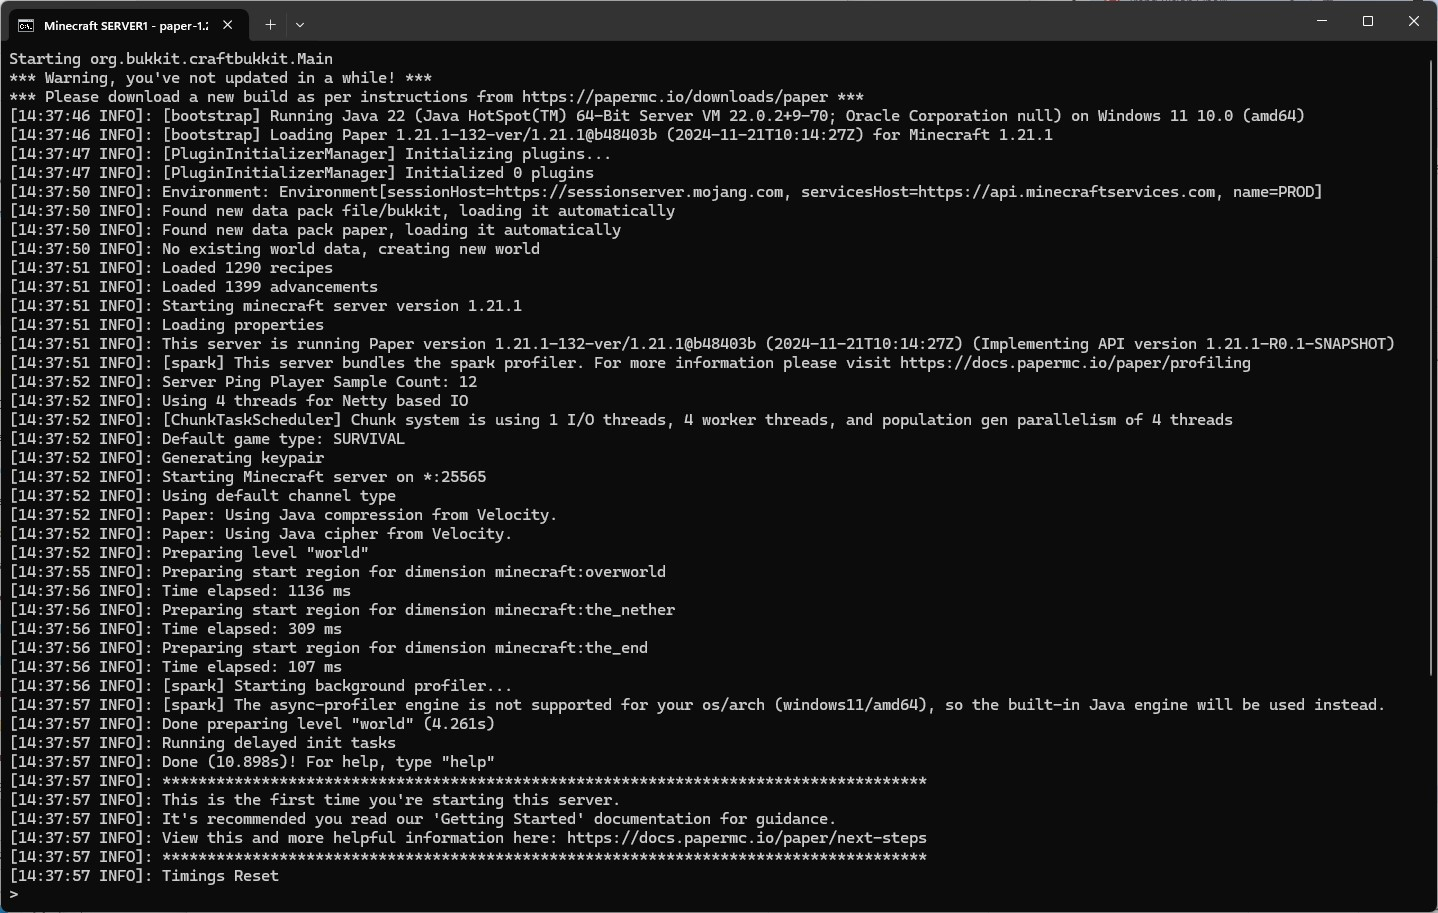
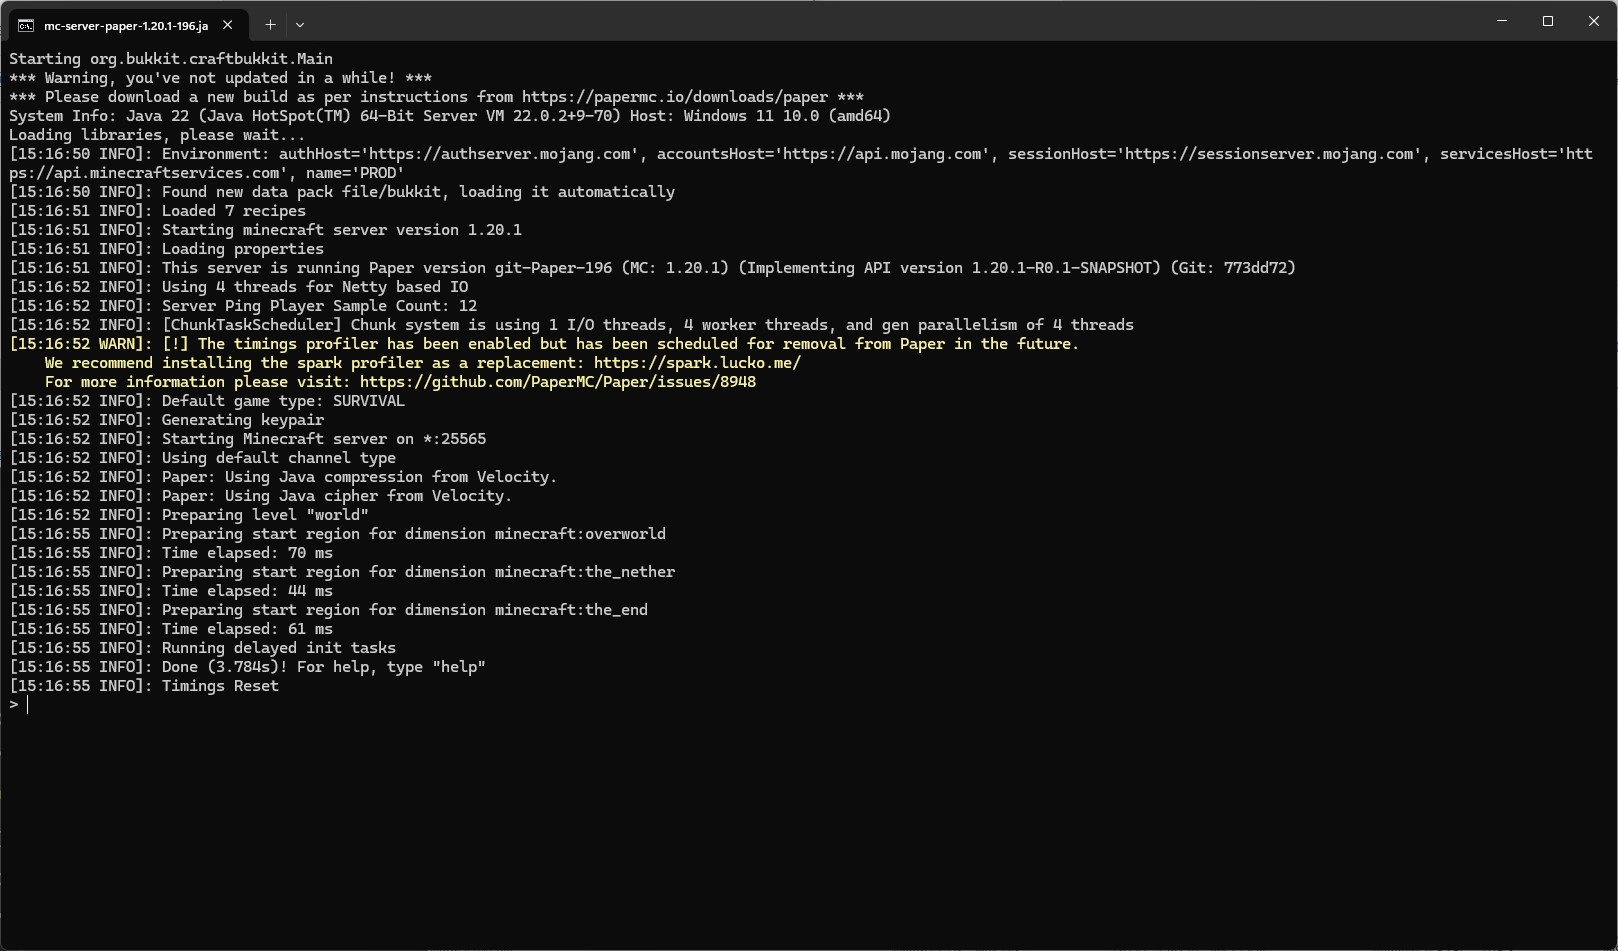
modify minecraft\JavaEdition\Plugins

diff --git a/JavaEdition/Plugins/work/ReadMe.md b/JavaEdition/Plugins/work/ReadMe.md
@@ -32,8 +32,8 @@
     
     @echo off
     set paper=paper-1.20.1-196.jar
-    set folder=C:\Users\%username%\work\server-1.20.1
-    title Minecraft Server %paper%
+    set folder=C:\Users\robert\work\server-1.20.1
+    title mc-server-%paper%
     cd \
     cd "%folder%"
     cls
@@ -49,10 +49,14 @@
     - ändere die Zeile `eula=false` in `eula=true`
   - starte erneut `start.cmd`, Ausgabe:
     ![Screenshot](https://github.com/dr-woitschek/minecraft/blob/main/JavaEdition/Plugins/work/Bilder/ausgabe_start_cmd2.jpg)
+  - mit dem Befehl `stop` wird der Server wieder beendet
 
 - Erstelle ein neues Projekt
   ![Screenshot](https://github.com/dr-woitschek/minecraft/blob/main/JavaEdition/Plugins/work/Bilder/IntelliJ_IDEA_04.jpg)
 
+- Minecraft Server in das IntelliJ IDEA Community Edition integrieren
+  - ![Screenshot](https://github.com/dr-woitschek/minecraft/blob/main/JavaEdition/Plugins/work/Bilder/IntelliJ_IDEA_05.jpg)
+  - ![Screenshot](https://github.com/dr-woitschek/minecraft/blob/main/JavaEdition/Plugins/work/Bilder/IntelliJ_IDEA_06.jpg)
 
 
 ---
